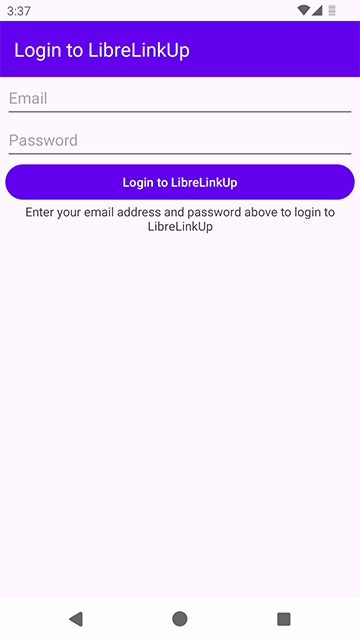
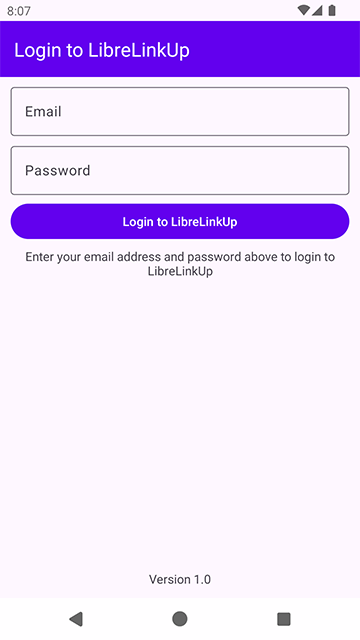
improve login screen layout

Changed region(s): [[0.0, 0.125, 1.0, 0.4375], [0.4278, 0.875, 0.5194, 0.9375], [0.9167, 0.0, 0.9472, 0.0312]]

diff --git a/wearable/src/main/java/org/c99/healthconnect_librelinkup/tile/GlucoseTileService.kt b/wearable/src/main/java/org/c99/healthconnect_librelinkup/tile/GlucoseTileService.kt
@@ -139,7 +139,7 @@ class GlucoseTileService : SuspendingTileService() {
                 .setTileTimeline(singleTileTimeline).build()
         }
 
-            val singleTileTimeline = TimelineBuilders.Timeline.Builder().addTimelineEntry(
+        val singleTileTimeline = TimelineBuilders.Timeline.Builder().addTimelineEntry(
             TimelineBuilders.TimelineEntry.Builder().setLayout(
                 LayoutElementBuilders.Layout.Builder().setRoot(noDataLayout(this)).build()
             ).build()
@@ -244,7 +244,7 @@ fun NoDataPreview() {
 )
 @Composable
 fun LowPreview() {
-    LayoutRootPreview(root = tileLayout(LocalContext.current, 60f, "arrow_down", LocalContext.current.getColor(R.color.low), "15m ago", 1))
+    LayoutRootPreview(root = tileLayout(LocalContext.current, 60f, "arrow_down", LocalContext.current.getColor(R.color.low), "5 minutes ago", 1))
 }
 @Preview(
     device = Devices.WEAR_OS_SMALL_ROUND,
@@ -254,7 +254,7 @@ fun LowPreview() {
 )
 @Composable
 fun NormalPreview() {
-    LayoutRootPreview(root = tileLayout(LocalContext.current, 100f, "arrow_right", LocalContext.current.getColor(R.color.normal), "15m ago", 1))
+    LayoutRootPreview(root = tileLayout(LocalContext.current, 100f, "arrow_right", LocalContext.current.getColor(R.color.normal), "10 minutes ago", 1))
 }
 @Preview(
     device = Devices.WEAR_OS_SMALL_ROUND,
@@ -264,7 +264,7 @@ fun NormalPreview() {
 )
 @Composable
 fun HighPreview() {
-    LayoutRootPreview(root = tileLayout(LocalContext.current, 180f, "arrow_up_right", LocalContext.current.getColor(R.color.high), "15m ago", 1))
+    LayoutRootPreview(root = tileLayout(LocalContext.current, 180f, "arrow_up_right", LocalContext.current.getColor(R.color.high), "15 minutes ago", 1))
 }
 @Preview(
     device = Devices.WEAR_OS_SMALL_ROUND,
@@ -274,5 +274,5 @@ fun HighPreview() {
 )
 @Composable
 fun VeryHighPreview() {
-    LayoutRootPreview(root = tileLayout(LocalContext.current, 300f, "arrow_up", LocalContext.current.getColor(R.color.very_high), "15m ago", 1))
+    LayoutRootPreview(root = tileLayout(LocalContext.current, 300f, "arrow_up", LocalContext.current.getColor(R.color.very_high), "20 minutes ago", 1))
 }

diff --git a/app/src/main/java/org/c99/healthconnect_librelinkup/MainActivity.java b/app/src/main/java/org/c99/healthconnect_librelinkup/MainActivity.java
@@ -17,6 +17,7 @@
 package org.c99.healthconnect_librelinkup;
 
 import android.content.SharedPreferences;
+import android.content.pm.PackageManager;
 import android.os.AsyncTask;
 import android.os.Bundle;
 import android.view.View;
@@ -59,6 +60,12 @@ public class MainActivity extends AppCompatActivity {
         emailAddress = findViewById(R.id.email);
         password = findViewById(R.id.password);
         status = findViewById(R.id.status);
+        TextView version = findViewById(R.id.version);
+        try {
+            version.setText("Version " + getPackageManager().getPackageInfo(getPackageName(), 0).versionName);
+        } catch (PackageManager.NameNotFoundException e) {
+            version.setVisibility(View.GONE);
+        }
 
         try {
             SharedPreferences user = getSharedPreferences("user", MODE_PRIVATE);
